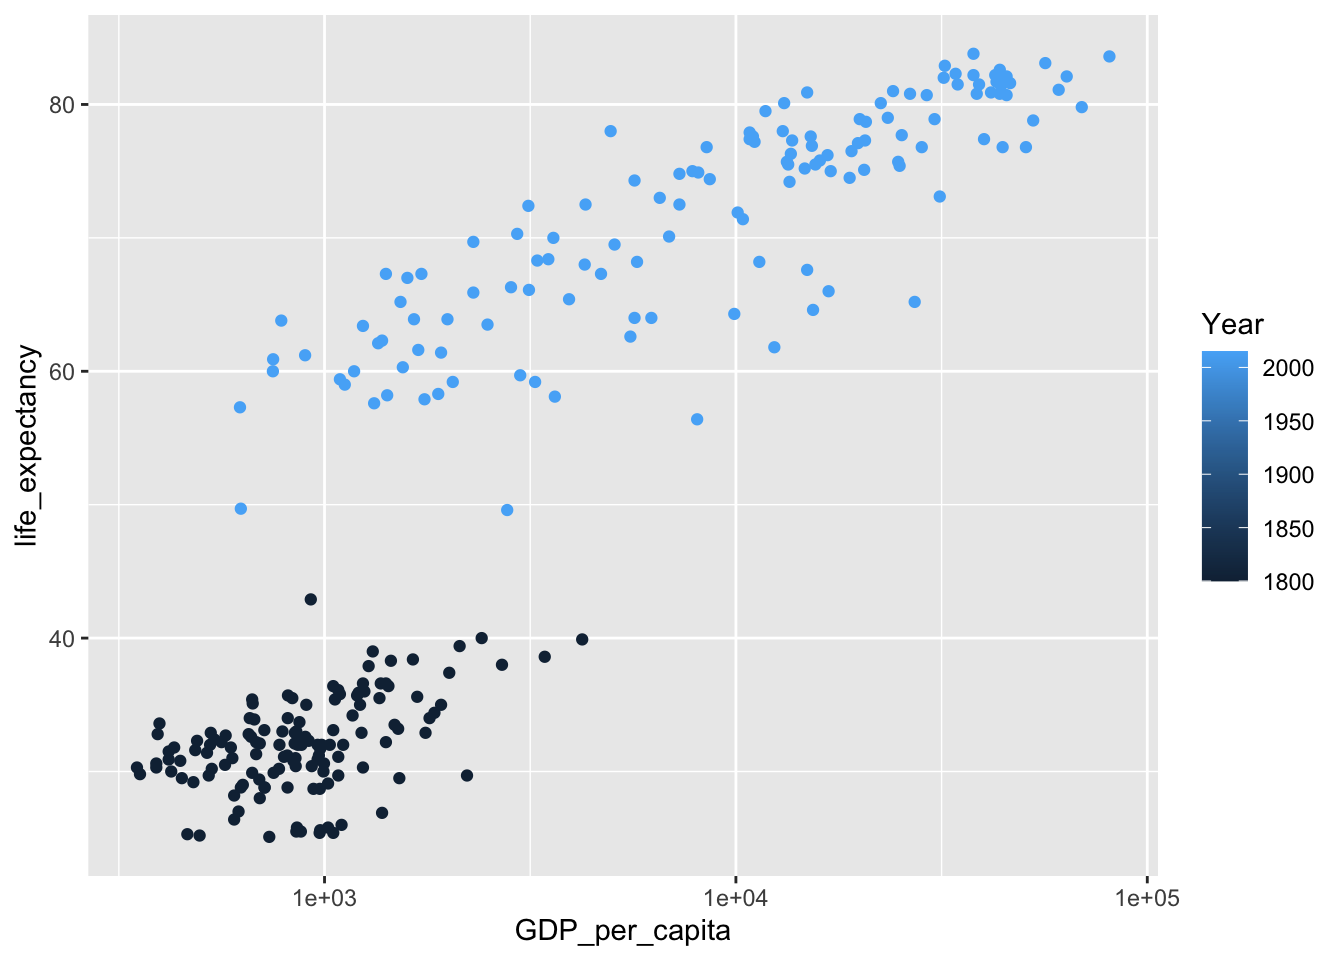
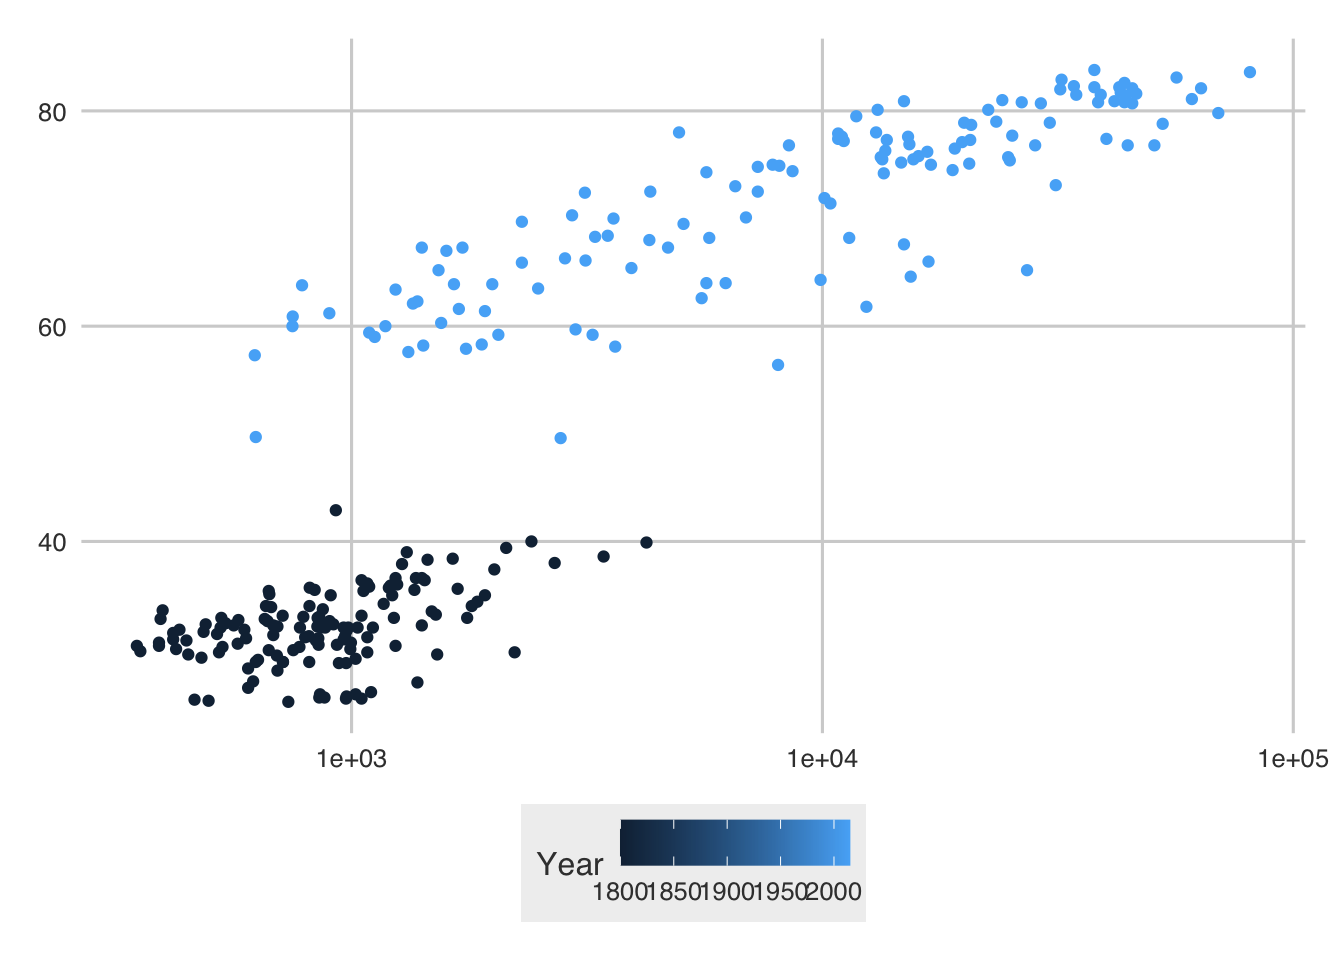
Updating graphics for tutorial

diff --git a/content/modules/RGraphicsTutorial.html b/content/modules/RGraphicsTutorial.html
@@ -144,16 +144,9 @@ Fortunately for us, R has a really nice set of commands for us within the <code>
 </p>
 <pre class="r"><code># install.packages(&quot;tidyverse&quot;) - I already have this installed so no need to do it here. 
 # load the library as so:
-library(tidyverse)</code></pre>
-<pre><code>## ── Attaching packages ──────────────────────────────────────────────────────────────────────── tidyverse 1.3.0 ──</code></pre>
-<pre><code>## ✓ ggplot2 3.3.1     ✓ purrr   0.3.4
-## ✓ tibble  3.0.1     ✓ dplyr   1.0.0
-## ✓ tidyr   1.1.0     ✓ stringr 1.4.0
-## ✓ readr   1.3.1     ✓ forcats 0.5.0</code></pre>
-<pre><code>## ── Conflicts ─────────────────────────────────────────────────────────────────────────── tidyverse_conflicts() ──
-## x dplyr::filter() masks stats::filter()
-## x dplyr::lag()    masks stats::lag()</code></pre>
-<pre class="r"><code># Now, we &#39;pivot&#39; our data longer
+library(tidyverse)
+
+# Now, we &#39;pivot&#39; our data longer
 # Keep in mind, we want our years to be their own variable, &#39;years&#39;, and our values &#39;income&#39;
 # Also notice that all the years begin with &quot;X&quot; - we can use that to our advantage
 tidy_df &lt;- gapminder_IncomePerCap %&gt;% 
@@ -304,7 +297,7 @@ But about dimensions... we have a population variable that we could take advanta
   # let&#39;s get rid of the legends for now...
   guides(size = FALSE, color = FALSE) +
   # and add a theme
-  theme_minimal() +
+  #theme_minimal() +
   # and labels
   labs(
     y = &quot;Life Expectancy&quot;,
@@ -327,7 +320,7 @@ ggplot(gselect_us) +
   # let&#39;s get rid of the legends for now...
   guides(size = FALSE, color = FALSE) +
   # and add a theme
-  theme_minimal() +
+  #theme_minimal() +
   # and labels
   labs(
     y = &quot;Life Expectancy&quot;,
@@ -364,7 +357,7 @@ ggplot(child_mort_cutoff_data) +
   # let&#39;s get rid of the legends for now...
   guides(size = FALSE, color = FALSE, shape = FALSE) +
   # and add a theme
-  theme_minimal() +
+  #theme_minimal() +
   # and labels
   labs(
     y = &quot;Life Expectancy&quot;,

diff --git a/public/modules/rgraphicstutorial/index.html b/public/modules/rgraphicstutorial/index.html
@@ -269,16 +269,9 @@ Fortunately for us, R has a really nice set of commands for us within the <code>
 </p>
 <pre class="r"><code># install.packages(&quot;tidyverse&quot;) - I already have this installed so no need to do it here. 
 # load the library as so:
-library(tidyverse)</code></pre>
-<pre><code>## ── Attaching packages ──────────────────────────────────────────────────────────────────────── tidyverse 1.3.0 ──</code></pre>
-<pre><code>## ✓ ggplot2 3.3.1     ✓ purrr   0.3.4
-## ✓ tibble  3.0.1     ✓ dplyr   1.0.0
-## ✓ tidyr   1.1.0     ✓ stringr 1.4.0
-## ✓ readr   1.3.1     ✓ forcats 0.5.0</code></pre>
-<pre><code>## ── Conflicts ─────────────────────────────────────────────────────────────────────────── tidyverse_conflicts() ──
-## x dplyr::filter() masks stats::filter()
-## x dplyr::lag()    masks stats::lag()</code></pre>
-<pre class="r"><code># Now, we &#39;pivot&#39; our data longer
+library(tidyverse)
+
+# Now, we &#39;pivot&#39; our data longer
 # Keep in mind, we want our years to be their own variable, &#39;years&#39;, and our values &#39;income&#39;
 # Also notice that all the years begin with &quot;X&quot; - we can use that to our advantage
 tidy_df &lt;- gapminder_IncomePerCap %&gt;% 
@@ -429,7 +422,7 @@ But about dimensions... we have a population variable that we could take advanta
   # let&#39;s get rid of the legends for now...
   guides(size = FALSE, color = FALSE) +
   # and add a theme
-  theme_minimal() +
+  #theme_minimal() +
   # and labels
   labs(
     y = &quot;Life Expectancy&quot;,
@@ -452,7 +445,7 @@ ggplot(gselect_us) +
   # let&#39;s get rid of the legends for now...
   guides(size = FALSE, color = FALSE) +
   # and add a theme
-  theme_minimal() +
+  #theme_minimal() +
   # and labels
   labs(
     y = &quot;Life Expectancy&quot;,
@@ -489,7 +482,7 @@ ggplot(child_mort_cutoff_data) +
   # let&#39;s get rid of the legends for now...
   guides(size = FALSE, color = FALSE, shape = FALSE) +
   # and add a theme
-  theme_minimal() +
+  #theme_minimal() +
   # and labels
   labs(
     y = &quot;Life Expectancy&quot;,

diff --git a/content/solns/2_soln.html b/content/solns/2_soln.html
@@ -13,13 +13,10 @@ tags: ["R", "Solutions"]
 <h3>Initial Setup</h3>
 <pre class="r"><code># load relevant libraries
 library(tidyverse)
-library(lubridate)</code></pre>
-<pre><code>## 
-## Attaching package: &#39;lubridate&#39;</code></pre>
-<pre><code>## The following objects are masked from &#39;package:base&#39;:
-## 
-##     date, intersect, setdiff, union</code></pre>
-<pre class="r"><code># read in data (this step looks slightly different for me)
+library(lubridate)
+
+
+# read in data (this step looks slightly different for me)
 mobility &lt;- read.csv(&quot;../data/applemobilitytrends.csv&quot;)
 
 # view the structure

diff --git a/public/solns/2_soln/index.html b/public/solns/2_soln/index.html
@@ -136,13 +136,10 @@
 <h3>Initial Setup</h3>
 <pre class="r"><code># load relevant libraries
 library(tidyverse)
-library(lubridate)</code></pre>
-<pre><code>## 
-## Attaching package: &#39;lubridate&#39;</code></pre>
-<pre><code>## The following objects are masked from &#39;package:base&#39;:
-## 
-##     date, intersect, setdiff, union</code></pre>
-<pre class="r"><code># read in data (this step looks slightly different for me)
+library(lubridate)
+
+
+# read in data (this step looks slightly different for me)
 mobility &lt;- read.csv(&quot;../data/applemobilitytrends.csv&quot;)
 
 # view the structure
